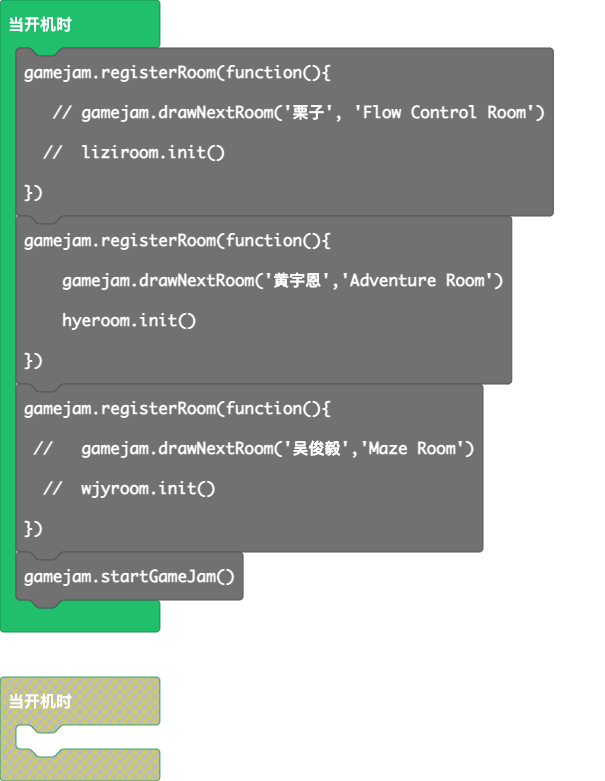
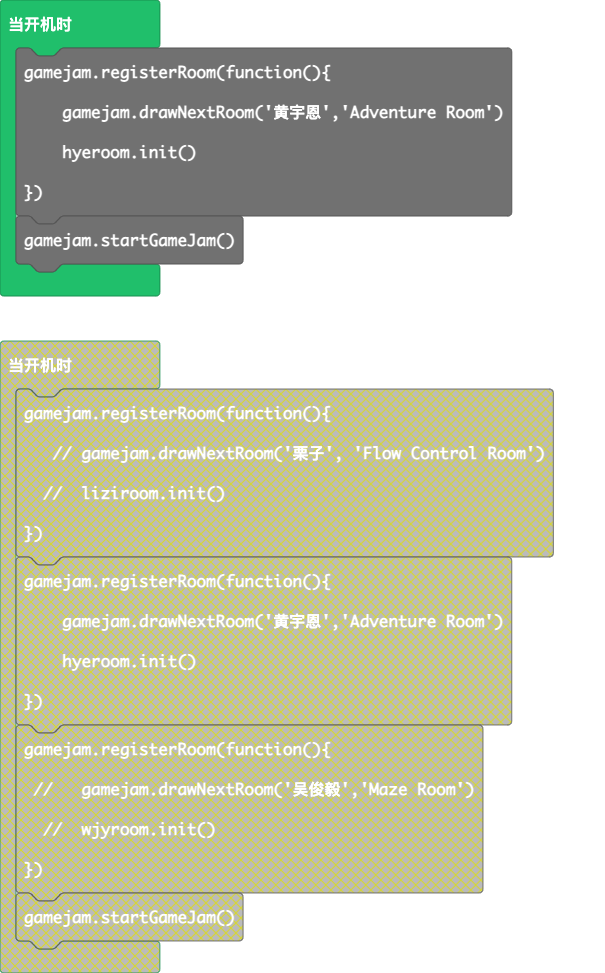
更新 main.blocks, main.ts, hyeroom.ts, tilemap.g.jres, tilemap.g.ts

diff --git a/tilemap.g.ts b/tilemap.g.ts
@@ -1,4 +1,4 @@
-// Auto-generated code. Do not edit.
+// 自动生成的代码。请勿编辑。
 namespace myTiles {
     //% fixedInstance jres blockIdentity=images._tile
     export const transparency16 = image.ofBuffer(hex``);
@@ -17,66 +17,6 @@ namespace myTiles {
     //% fixedInstance jres blockIdentity=images._tile
     export const hyetile7 = image.ofBuffer(hex``);
 
-    helpers._registerFactory("tilemap", function(name: string) {
-        switch(helpers.stringTrim(name)) {
[1 lines of base64/hex data omitted]
-. . . . . . . . . . . . . . . . 
-. . . . . . . . . . . . . . . . 
-. . . . . . . . . . . . . . . . 
-. . . . . . . . . . . . . . . . 
-. . . . . . . . . . . . . . . . 
-. . . . . . . . . . . . . . . . 
-. . . . . . . . . . . . . . . . 
-. . . . . . . . . . . . . . . . 
-. . . . . . . . . . . . . . . . 
-. . . . . . . . . . . . . . . . 
-. . . . . . . . . . . . . . . . 
-. . . . . . . . . . . . . . . . 
-. . . . . . . . . . . . . . . . 
-. . . . . . . . . . . . . . . . 
-. . . . . . . . . . . . . . . . 
-. . . . . . . . . . . . . . . . 
-`, [myTiles.transparency16,sprites.castle.tileDarkGrass2,sprites.castle.tileDarkGrass3,myTiles.tile2,myTiles.tile3,myTiles.tile4,myTiles.tile1,myTiles.tile5,myTiles.tile6,myTiles.tile7,sprites.castle.tileDarkGrass1], TileScale.Sixteen);
[1 lines of base64/hex data omitted]
-. . . . . . . . . . . . . . . . 
-. . . . . . . . . . . . . . . . 
-. . . . . . . . . . . . . . . . 
-. . . . . . . . . . . . . . . . 
-. . . . . . . . . . . . . . . . 
-. . . . . . . . . . . . . . . . 
-. . . . . . . . . . . . . . . . 
-. . . . . . . . . . . . . . . . 
-. . . . . . . . . . . . . . . . 
-. . . . . . . . . . . . . . . . 
-. . . . . . . . . . . . . . . . 
-. . . . . . . . . . . . . . . . 
-. . . . . . . . . . . . . . . . 
-. . . . . . . . . . . . . . . . 
-. . . . . . . . . . . . . . . . 
-. . . . . . . . . . . . . . . . 
-`, [myTiles.transparency16,sprites.dungeon.greenOuterSouthEast,sprites.dungeon.greenOuterSouth0,sprites.dungeon.greenOuterWest1,sprites.dungeon.greenOuterNorth0,sprites.dungeon.greenOuterNorthEast,sprites.dungeon.greenOuterEast0,sprites.dungeon.greenOuterNorthWest,sprites.dungeon.greenOuterSouthWest,sprites.dungeon.purpleOuterSouth2,sprites.dungeon.purpleOuterEast2,sprites.dungeon.purpleOuterSouthWest,sprites.dungeon.purpleOuterWest2,sprites.dungeon.purpleOuterSouthEast,sprites.dungeon.purpleOuterNorth2,sprites.dungeon.purpleOuterNorthWest,sprites.dungeon.purpleOuterNorthEast,sprites.castle.tilePath5], TileScale.Sixteen);
-            case "hyelevel_1":return tiles.createTilemap(hex`1000100002020202020202020202020202020202020202010202020202020202020202020202020202020202020201020202020202020202020201020202020202020202020202020202020202020202020202020202020202020202020202020102020202020102020201020202020202020202020202020202020202020202020202020202020202020202020202020202020202020202020202020202010202020202020202020201020202020202020202020202020202020202020202020202020202020102020202020202020202020202020202020202020202020202020202020202020202020202020202020202020202020202020202020202020202020202`, img`
-. . . . . . . . . . . . . . . . 
-. . . . . . . . . . . . . . . . 
-. . . . . . . . . . . . . . . . 
-. . . . . . . . . . . . . . . . 
-. . . . . . . . . . . . . . . . 
-. . . . . . . . . . . . . . . . 
-. . . . . . . . . . . . . . . . 
-. . . . . . . . . . . . . . . . 
-. . . . . . . . . . . . . . . . 
-. . . . . . . . . . . . . . . . 
-. . . . . . . . . . . . . . . . 
-. . . . . . . . . . . . . . . . 
-. . . . . . . . . . . . . . . . 
-. . . . . . . . . . . . . . . . 
-. . . . . . . . . . . . . . . . 
-. . . . . . . . . . . . . . . . 
-`, [myTiles.transparency16,sprites.castle.tileDarkGrass2,sprites.castle.tileDarkGrass3], TileScale.Sixteen);
-        }
-        return null;
-    })
-
     helpers._registerFactory("tile", function(name: string) {
         switch(helpers.stringTrim(name)) {
             case "transparency16":return transparency16;
@@ -92,4 +32,4 @@ namespace myTiles {
     })
 
 }
-// Auto-generated code. Do not edit.
+// 自动生成的代码。请勿编辑。

diff --git a/hyeroom.ts b/hyeroom.ts
@@ -92,23 +92,23 @@ controller.B.onEvent(ControllerButtonEvent.Pressed, function () {
             黄宇恩弹射物2.setKind(SpriteKind.黄宇恩弹射物)
         } else if (黄宇恩方向 == 3) {
             黄宇恩弹射物2 = sprites.createProjectileFromSprite(img`
-                . . . . . . . f f . . . . . . . 
-                . . . . . . . f f . . . . . . . 
-                . . . . . . . f f . . . . . . . 
-                . . . . . . . f f . . . . . . . 
-                . . . . . . . f f . . . . . . . 
-                . . . . f f f f f f f f . . . . 
-                . . . . f e e e e e e f . . . . 
-                . . . . f e e e e e e f . . . . 
-                . . . . f f f f f f f f . . . . 
-                . . . . . . . f f . . . . . . . 
-                . . . . . . . f f . . . . . . . 
-                . . . . . . . f f . . . . . . . 
-                . . . . . . . f f . . . . . . . 
-                . . . . . . . f f . . . . . . . 
-                . . . . . . . f f . . . . . . . 
-                . . . . . . . f f . . . . . . . 
-                `, hyehero, -100, 0)
+                . . . . . . . f f . . . . . . .
+                . . . . . . . f f . . . . . . .
+                . . . . . . . f f . . . . . . .
+                . . . . . . . f f . . . . . . .
+                . . . . . . . f f . . . . . . .
+                . . . . f f f f f f f f . . . .
+                . . . . f e e e e e e f . . . .
+                . . . . f e e e e e e f . . . .
+                . . . . f f f f f f f f . . . .
+                . . . . . . . f f . . . . . . .
+                . . . . . . . f f . . . . . . .
+                . . . . . . . f f . . . . . . .
+                . . . . . . . f f . . . . . . .
+                . . . . . . . f f . . . . . . .
+                . . . . . . . f f . . . . . . .
+                . . . . . . . f f . . . . . . .
+            `, hyehero, -100, 0)
             黄宇恩弹射物2.setKind(SpriteKind.黄宇恩弹射物)
         } else {
             黄宇恩弹射物2 = sprites.createProjectileFromSprite(img`
@@ -210,7 +210,7 @@ controller.A.onEvent(ControllerButtonEvent.Pressed, function () {
     }
     if (hyehero.overlapsWith(hyebaoxiang2)) {
         if (钥匙1数 == 1) {
-            tiles.setTilemap(tilemap`level`)
+            tiles.setTilemap(tilemap`hyelevel`)
             hyebaoxiang2.say("下面有三个方块", 2000)
             hyebaoxiang2.say("你去摸一下红方块", 2000)
             hyekending = 1
@@ -219,7 +219,7 @@ controller.A.onEvent(ControllerButtonEvent.Pressed, function () {
     }
     if (hyehero.overlapsWith(hyebaoxiang3)) {
         if (yaoshi2shu == 1) {
-            tiles.setTilemap(tilemap`level`)
+            tiles.setTilemap(tilemap`hyelevel`)
             game.splash("按b射出子弹")
             game.splash("躲开黄色，碰到绿色，打死红色！")
             黄宇恩肯定 = 3
@@ -251,7 +251,7 @@ info.onCountdownEnd(function () {
     cubicbird.destroyAllSpriteOfKind(SpriteKind.黄宇恩bad)
     cubicbird.destroyAllSpriteOfKind(SpriteKind.黄宇恩其他)
     cubicbird.destroyAllSpriteOfKind(SpriteKind.hyefood)
-    tiles.setTilemap(tilemap`level_0`)
+    tiles.setTilemap(tilemap`hyelevel_0`)
     info.setLife(10)
     for (let index = 0; index < 10; index++) {
         黄宇恩鬼 = sprites.create(img`
@@ -380,7 +380,7 @@ function 苹果 () {
 controller.down.onEvent(ControllerButtonEvent.Pressed, function () {
     黄宇恩方向 = 2
 })
-scene.onOverlapTile(SpriteKind.hyeplayer, assets.tile`tile2`, function (sprite, location) {
+scene.onOverlapTile(SpriteKind.hyeplayer, assets.tile`hyetile2`, function (sprite, location) {
     if (hyekending == 0) {
         if (controller.A.isPressed()) {
             game.splash("yes！")
@@ -429,7 +429,7 @@ sprites.onOverlap(SpriteKind.hyeplayer, SpriteKind.hyehelp2, function (sprite, o
     yaoshi2shu = 1
     otherSprite.destroy()
 })
-scene.onOverlapTile(SpriteKind.hyeplayer, assets.tile`tile3`, function (sprite, location) {
+scene.onOverlapTile(SpriteKind.hyeplayer, assets.tile`hyetile3`, function (sprite, location) {
     if (hyekending == 1) {
         game.splash("黄：我下面没有钥匙")
         game.splash("红：我下面有钥匙")
@@ -447,7 +447,7 @@ scene.onOverlapTile(SpriteKind.hyeplayer, assets.tile`tile3`, function (sprite, 
         }
     }
 })
-scene.onOverlapTile(SpriteKind.hyeplayer, assets.tile`tile4`, function (sprite, location) {
+scene.onOverlapTile(SpriteKind.hyeplayer, assets.tile`hyetile4`, function (sprite, location) {
     if (hyekending == 0) {
         if (controller.A.isPressed()) {
             game.splash("啊！有蛇！")
@@ -472,7 +472,7 @@ sprites.onOverlap(SpriteKind.hyeplayer, SpriteKind.黄宇恩其他, function (sp
     otherSprite.destroy()
 })
 
-tiles.setTilemap(tilemap`level_1`)
+tiles.setTilemap(tilemap`hyelevel_1`)
 hyehero = sprites.create(img`
     . . . . . . f f f f . . . . . . 
     . . . . f f f 2 2 f f f . . . . 

diff --git a/main.ts b/main.ts
@@ -1,4 +1,3 @@
-
 gamejam.registerRoom(function(){
     gamejam.drawNextRoom('黄宇恩','Adventure Room')
     hyeroom.init()
